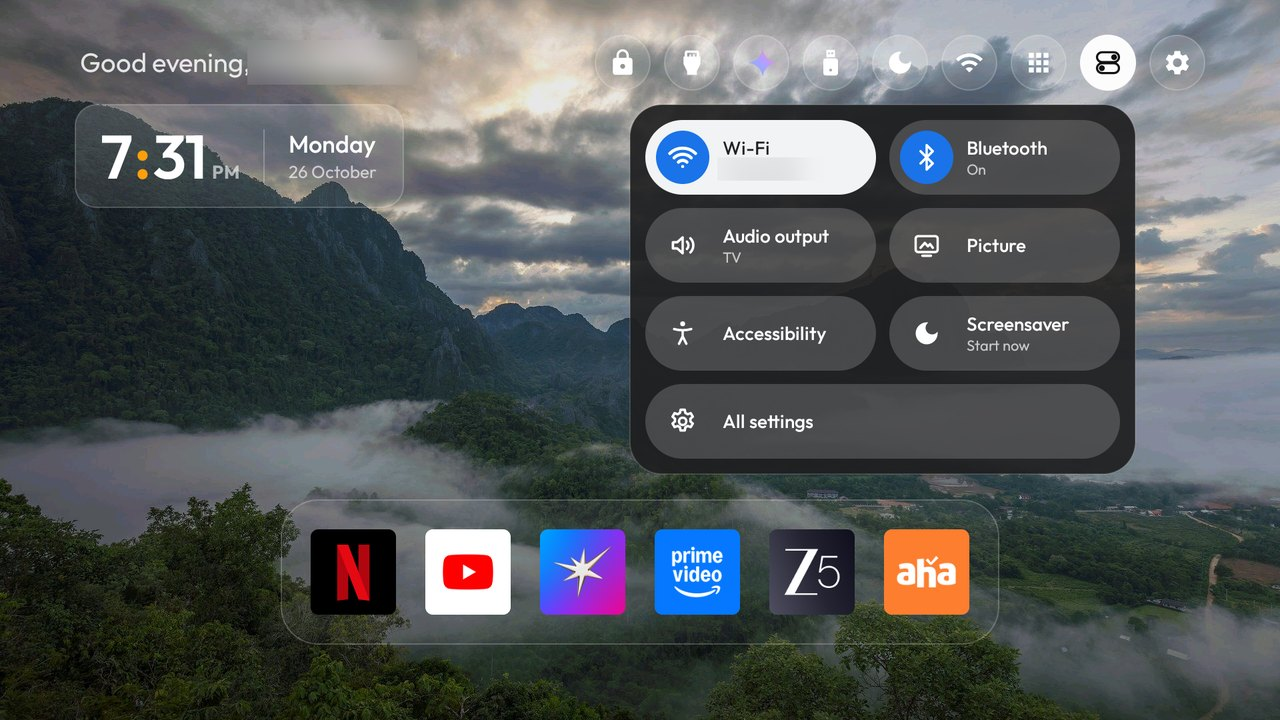
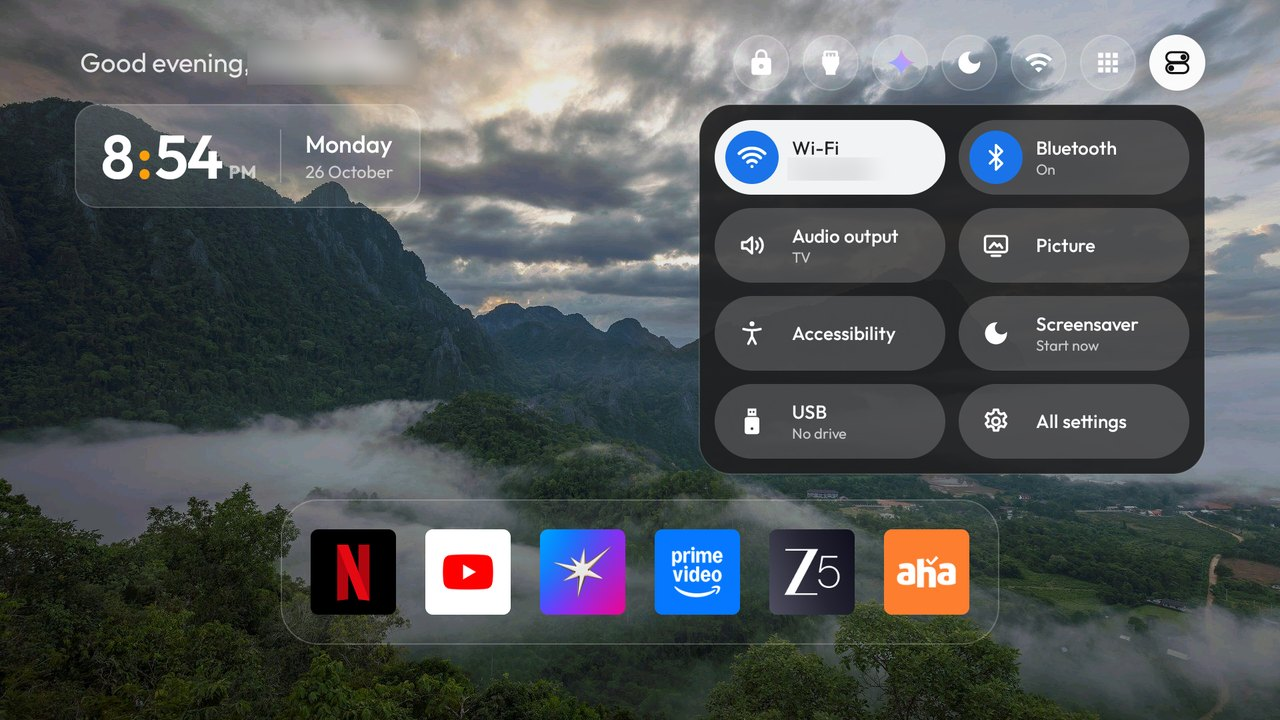
Launcher: the Control Centre replaces Settings and holds USB; wallpaper_fallback_glow; Home opens without the highlight sliding in
The toggles button takes the Settings pill's place (hold OK keeps the launcher menu), USB moves into the panel, the app-colour glow covers a wallpaper that isn't readable yet after power-on, and the grid stays hidden until its padding settles. Tried on a Xiaomi TV A Pro 2026, Google TV 14.

diff --git a/launcher/app/src/main/java/com/gathin/tvhome/MainActivity.java b/launcher/app/src/main/java/com/gathin/tvhome/MainActivity.java
@@ -223,6 +223,8 @@ public class MainActivity extends Activity implements AppAdapter.TileListener {
     private float glassScrollShiftX;
     private int glassCardW;   // width of the tile the glass was last fitted to
     private boolean glassShown;
+    /** The grid has been laid out with the dock's final top padding. */
+    private boolean gridSettled;
     private final Rect tileRect = new Rect();
     private final Rect revealRect = new Rect();
     // Static so they survive the activity being destroyed while another app is open (low-memory TVs,
@@ -307,6 +309,32 @@ public class MainActivity extends Activity implements AppAdapter.TileListener {
     private RecyclerView.OnScrollListener pendingFocusScroll;
 
     private final Handler handler = new Handler(Looper.getMainLooper());
+
+    /** wallpaper_fallback_glow: Home opened without its wallpaper, so the app-colour glow stands in. */
+    private boolean wallpaperFallbackGlow;
+    private static final long WALLPAPER_RETRY_MS = 4000;
+    /** Tries since Home last had its wallpaper; a process-wide cap, so a picture that never loads stops the rebuilds. */
+    private static int wallpaperRetries;
+    /**
+     * Rebuilds Home once the wallpaper files can be read: right after power-on Home can start before shared storage
+     * is up, or while the TV is too busy to decode the picture.
+     */
+    private final Runnable wallpaperRetry = new Runnable() {
+        @Override
+        public void run() {
+            if (isFinishing() || wallpaperPlayer.showing() || wallpaperRetries >= 30) return;
+            wallpaperRetries++;
+            if (wallpaperFilesReady()) recreate();
+            else handler.postDelayed(this, WALLPAPER_RETRY_MS);
+        }
+    };
+
+    private boolean wallpaperFilesReady() {
+        File dir = Config.dir(this);
+        if (dir == null) return false;
+        File single = new File(dir, Config.WALLPAPER_NAME);
+        return single.isFile() && single.length() > 0 || !WallpaperRotation.images(new File(dir, "wallpapers")).isEmpty();
+    }
     /** Refreshes the network pill when the connection changes: at boot Wi-Fi often connects after Home is shown. */
     private final ConnectivityManager.NetworkCallback networkCallback = new ConnectivityManager.NetworkCallback() {
         @Override
@@ -449,7 +477,8 @@ public class MainActivity extends Activity implements AppAdapter.TileListener {
         // The glow is one bitmap, so its alpha can be applied while drawing it. Otherwise every frame of
         // a fade renders it into a full-screen offscreen buffer first.
         ambient.forceHasOverlappingRendering(false);
-        ambientGlow = cfg.ambientGlow;
+        wallpaperFallbackGlow = cfg.wallpaperFallbackGlow;
+        ambientGlow = cfg.ambientGlow || wallpaperFallbackGlow && !wallpaperPlayer.showing();
         appGlow = cfg.appGlow;
         if (!ambientGlow) ambient.setVisibility(View.GONE);
         heroName = findViewById(R.id.heroName);
@@ -529,6 +558,10 @@ public class MainActivity extends Activity implements AppAdapter.TileListener {
         hiddenApps = new HashSet<>(cfg.hiddenApps);
 
         grid = findViewById(R.id.grid);
+        // Until the dock has its final padding: no dock band drawn under the header, and no top button taking the
+        // first focus (it lit up white before the dock tile took over).
+        grid.setAlpha(0f);
+        ((ViewGroup) findViewById(R.id.topButtons)).setDescendantFocusability(ViewGroup.FOCUS_BLOCK_DESCENDANTS);
         rtlAppGrid = getResources().getBoolean(R.bool.rtl_app_grid);
         // Mirror only the app grid; the header and other locales keep their own layouts.
         // single_row: one span laid out sideways, so the same adapter, glass and dock band serve a scrolling row.
@@ -656,8 +689,18 @@ public class MainActivity extends Activity implements AppAdapter.TileListener {
             // A single row never shows the names under its tiles (the title above the row names the app), so the
             // 7dp gap and 22dp label item_app.xml keeps for them would only lift the row: sit it that much lower.
             if (singleRow && !cfg.alwaysShowNames) want += (int) (29 * density);
-            if (grid.getPaddingTop() != want) {
+            if (grid.getPaddingTop() == want) {
+                gridSettled = true;
+                if (grid.getAlpha() == 0f) {
+                    grid.setAlpha(1f);
+                    ((ViewGroup) findViewById(R.id.topButtons)).setDescendantFocusability(ViewGroup.FOCUS_AFTER_DESCENDANTS);
+                }
+            } else {
+                gridSettled = false;
                 grid.setPadding(grid.getPaddingLeft(), want, grid.getPaddingRight(), grid.getPaddingBottom());
+                if (!singleRow) grid.post(grid::requestLayout);
+                // The first layout put the dock in the wrong place: play the tiles' entrance where they stay.
+                if (!glassShown && grid.getLayoutAnimation() != null) grid.scheduleLayoutAnimation();
                 // A vertical grid parks the dock on the new padding line by scrolling (onTileFocused); a sideways
                 // row cannot scroll vertically, and the layout request made from inside this layout pass is
                 // dropped, so lay the row out again on the next frame. The glass and the title were placed for the
@@ -770,10 +813,10 @@ public class MainActivity extends Activity implements AppAdapter.TileListener {
         btnLibraryTop.setVisibility(cfg.libraryButton && cfg.appLibrary ? View.VISIBLE : View.GONE);
         addTopBarApps(cfg.topBarApps, cfg.launchActions);
         if (cfg.assistantButton) addAssistantButton();
-        if (!cfg.usbButton.isEmpty()) addUsbButton(cfg.usbButton);
+        if (cfg.controlCenter && !cfg.topMenu) usbPackage = cfg.usbButton;
+        else if (!cfg.usbButton.isEmpty()) addUsbButton(cfg.usbButton);
         if (cfg.sleepTimerButton) addSleepTimerButton();
         if (cfg.lockButton) addLockButton();
-        if (cfg.controlCenter) addControlCenterButton();
         librarySquareCards = cfg.librarySquareCards;
         appBanners = cfg.appBanners;
         iconOnlyButtons = cfg.iconOnlyButtons;
@@ -815,6 +858,7 @@ public class MainActivity extends Activity implements AppAdapter.TileListener {
             showSettingsMenu();
             return true;
         });
+        if (cfg.controlCenter && !cfg.topMenu) makeControlCenterButton((TextView) btnSettings);
 
         // Keep focus on the top bar at its ends and at the top: Android's focus finder would otherwise
         // jump to a tile far below when there is nothing in that direction.
@@ -997,6 +1041,10 @@ public class MainActivity extends Activity implements AppAdapter.TileListener {
             return;
         }
         restartIdleClock();
+        if (wallpaperFallbackGlow) {
+            if (wallpaperPlayer.showing()) wallpaperRetries = 0;
+            else handler.postDelayed(wallpaperRetry, WALLPAPER_RETRY_MS);
+        }
         promptsPaused = false;
         if (grid.getAdapter() == null) grid.setAdapter(adapter);   // dropped by onTrimMemory
         switch (tileRefresh.onResume(packagesChangedSinceRebuild())) {
@@ -1207,6 +1255,7 @@ public class MainActivity extends Activity implements AppAdapter.TileListener {
     protected void onPause() {
         super.onPause();
         root.removeCallbacks(showIdleClock);
+        handler.removeCallbacks(wallpaperRetry);
         endReorder();   // Home or another app while reordering keeps the order so far
         wallpaperPlayer.stop();
         stopAmbientAnimation();
@@ -1687,6 +1736,9 @@ public class MainActivity extends Activity implements AppAdapter.TileListener {
             });
             return;
         }
+        // Before the dock has its final padding the tile still sits near the top: placed there, the highlight
+        // would show up under the header and then slide down. refitGlass places it once the grid settles.
+        if (!gridSettled) return;
         // Tile rect in root coordinates, using layout positions (ignores the scale animation).
         Rect r = tileRect;
         r.set(0, 0, card.getWidth(), card.getHeight());
@@ -2820,18 +2872,19 @@ public class MainActivity extends Activity implements AppAdapter.TileListener {
     /** sleep_timer_button's pill; null without it. */
     private TextView btnBedtime;
 
-    /** control_center: a round toggles button just before Settings that opens the quick settings tiles. */
-    private void addControlCenterButton() {
-        ViewGroup bar = findViewById(R.id.topButtons);
-        TextView button = (TextView) getLayoutInflater().inflate(R.layout.top_app_button, bar, false);
-        button.setId(View.generateViewId());
-        button.setCompoundDrawablesRelativeWithIntrinsicBounds(R.drawable.ic_control_center, 0, 0, 0);
-        button.setContentDescription(getString(R.string.control_center));
-        button.setOnClickListener(this::showControlCenter);
-        int settings = bar.indexOfChild(findViewById(R.id.btnSettings));
-        bar.addView(button, getResources().getBoolean(R.bool.rtl_menu_bar) ? settings + 1 : settings);
-        topAppButtons.add(button);
+    /**
+     * control_center: the Settings pill becomes a round toggles button that opens the quick settings tiles, whose
+     * All settings tile stands in for it. Holding OK still opens the Settings pill's menu.
+     */
+    private void makeControlCenterButton(TextView settings) {
+        settings.setCompoundDrawablesRelativeWithIntrinsicBounds(R.drawable.ic_control_center, 0, 0, 0);
+        settings.setText(getString(R.string.control_center));
+        makeIconOnly(settings);
+        settings.setOnClickListener(this::showControlCenter);
     }
+
+    /** usb_button's package, shown as a USB tile in control_center instead of a top-bar button; "" for none. */
+    private String usbPackage = "";
 
     /**
      * control_center, after the Google TV panel: two columns of rounded tiles, each a glyph on a round badge
@@ -2895,6 +2948,14 @@ public class MainActivity extends Activity implements AppAdapter.TileListener {
         addControlTile(row, popup, R.drawable.ic_sleep_timer, false, getString(R.string.screensaver),
                 getString(R.string.start_now), () -> open(startDream));
         row = controlRow(panel, gap);
+        Intent usb = usbPackage.isEmpty() ? null : getPackageManager().getLeanbackLaunchIntentForPackage(usbPackage);
+        if (usb == null && !usbPackage.isEmpty()) usb = getPackageManager().getLaunchIntentForPackage(usbPackage);
+        if (usb != null) {
+            String drive = usbDrive();
+            Intent openUsb = usb;
+            addControlTile(row, popup, R.drawable.ic_usb, drive != null, getString(R.string.usb),
+                    drive != null ? drive : getString(R.string.no_usb_drive), () -> open(openUsb));
+        }
         addControlTile(row, popup, R.drawable.ic_line_settings, false, getString(R.string.all_settings),
                 null, () -> open(systemIntent(Settings.ACTION_SETTINGS)));
 
@@ -2938,6 +2999,16 @@ public class MainActivity extends Activity implements AppAdapter.TileListener {
         });
         row.addView(tile);
         return tile;
+    }
+
+    /** The name of a mounted USB drive, or null when none is plugged in. */
+    private String usbDrive() {
+        android.os.storage.StorageManager sm = getSystemService(android.os.storage.StorageManager.class);
+        if (sm == null) return null;
+        for (android.os.storage.StorageVolume v : sm.getStorageVolumes()) {
+            if (v.isRemovable() && android.os.Environment.MEDIA_MOUNTED.equals(v.getState())) return v.getDescription(this);
+        }
+        return null;
     }
 
     /** Where sound goes: a Bluetooth or USB device by name, the HDMI ARC receiver, headphones, or the TV. */

diff --git a/launcher/app/src/main/java/com/gathin/tvhome/Config.java b/launcher/app/src/main/java/com/gathin/tvhome/Config.java
@@ -264,6 +264,8 @@ final class Config {
     final String usbButton;
     /** A toggles button opens a panel of quick setting tiles (config.xml, control_center). */
     final boolean controlCenter;
+    /** The app-colour glow stands in while no wallpaper could be shown (config.xml, wallpaper_fallback_glow). */
+    final boolean wallpaperFallbackGlow;
     /** App library cards as squares, the app's icon filling each with its name over it (library_square_cards). */
     final boolean librarySquareCards;
     /** A moon button in the top bar whose dropdown sets the Sleep Timer add-on (config.xml, sleep_timer_button). */
@@ -296,9 +298,10 @@ final class Config {
                    List<RaceWeekend.Race> raceCalendar, boolean cinematicHome, boolean ambientGlow, boolean appGlow, boolean fadeRows, int homeIdleClockMinutes,
                    boolean keyFilter, boolean dockGlass, String glowStyle, boolean wallpaperCaptions,
                    boolean handleViewInputs, boolean tileMenu, boolean dockEvenPadding, boolean dockBand, boolean cinematicDots, boolean cinematicWhiteFocus, boolean wifiStatusColor, int cinematicScrim, int cinematicArt,
-                   Map<String, Set<String>> wallpaperMoods, boolean gamepadPassthrough, boolean consumeVolumeKeys, boolean powerOnHome, boolean homeLongPressHome, boolean wifiStatusWarnings, List<String> topBarApps, boolean showGreeting, boolean headerWhite, boolean clockWallpaper, int clockWallpaperDim, boolean clockGlow, String glassStyle, boolean singleRow, boolean dockBandAll, boolean lunarDate, int lunarUtcOffset, boolean dateBelowClock, boolean vpnPill, String locale, boolean powerOnHomeAlways, boolean analogClock, boolean squareTiles, boolean boldClock, boolean clockCard, boolean assistantButton, boolean librarySquareCards, boolean sleepTimerButton, boolean heavyClock, boolean wifiDropdown, boolean lockButton, boolean idleLock, String usbButton, boolean controlCenter) {
+                   Map<String, Set<String>> wallpaperMoods, boolean gamepadPassthrough, boolean consumeVolumeKeys, boolean powerOnHome, boolean homeLongPressHome, boolean wifiStatusWarnings, List<String> topBarApps, boolean showGreeting, boolean headerWhite, boolean clockWallpaper, int clockWallpaperDim, boolean clockGlow, String glassStyle, boolean singleRow, boolean dockBandAll, boolean lunarDate, int lunarUtcOffset, boolean dateBelowClock, boolean vpnPill, String locale, boolean powerOnHomeAlways, boolean analogClock, boolean squareTiles, boolean boldClock, boolean clockCard, boolean assistantButton, boolean librarySquareCards, boolean sleepTimerButton, boolean heavyClock, boolean wifiDropdown, boolean lockButton, boolean idleLock, String usbButton, boolean controlCenter, boolean wallpaperFallbackGlow) {
         this.usbButton = usbButton;
         this.controlCenter = controlCenter;
+        this.wallpaperFallbackGlow = wallpaperFallbackGlow;
         this.lockButton = lockButton;
         this.idleLock = idleLock;
         this.wifiDropdown = wifiDropdown;
@@ -537,6 +540,7 @@ final class Config {
         boolean assistantButton = res.getBoolean(R.bool.assistant_button);
         String usbButton = res.getString(R.string.usb_button);
         boolean controlCenter = res.getBoolean(R.bool.control_center);
+        boolean wallpaperFallbackGlow = res.getBoolean(R.bool.wallpaper_fallback_glow);
         boolean librarySquareCards = res.getBoolean(R.bool.library_square_cards);
         boolean sleepTimerButton = res.getBoolean(R.bool.sleep_timer_button);
         boolean wifiDropdown = res.getBoolean(R.bool.wifi_dropdown);
@@ -654,6 +658,7 @@ final class Config {
             assistantButton = bool(json, "assistant_button", assistantButton);
             usbButton = string(json, "usb_button", usbButton);
             controlCenter = bool(json, "control_center", controlCenter);
+            wallpaperFallbackGlow = bool(json, "wallpaper_fallback_glow", wallpaperFallbackGlow);
             librarySquareCards = bool(json, "library_square_cards", librarySquareCards);
             sleepTimerButton = bool(json, "sleep_timer_button", sleepTimerButton);
             wifiDropdown = bool(json, "wifi_dropdown", wifiDropdown);
@@ -725,7 +730,7 @@ final class Config {
                 dockBand, cinematicDots, cinematicWhiteFocus, wifiStatusColor, cinematicScrim, cinematicArt, wallpaperMoods, gamepadPassthrough,
                 consumeVolumeKeys, powerOnHome, homeLongPressHome, wifiStatusWarnings, topBarApps, showGreeting, headerWhite, clockWallpaper,
                 Math.max(0, Math.min(90, clockWallpaperDim)), clockGlow, glassStyle, singleRow && dockRow, dockBandAll, lunar, lunarOffset,
-                dateBelowClock, vpnPill, locale, powerOnHomeAlways, analogClock, squareTiles && !singleRow, boldClock, clockCard, assistantButton, librarySquareCards, sleepTimerButton, heavyClock, wifiDropdown, lockButton, idleLock, usbButton == null ? "" : usbButton.trim(), controlCenter);
+                dateBelowClock, vpnPill, locale, powerOnHomeAlways, analogClock, squareTiles && !singleRow, boldClock, clockCard, assistantButton, librarySquareCards, sleepTimerButton, heavyClock, wifiDropdown, lockButton, idleLock, usbButton == null ? "" : usbButton.trim(), controlCenter, wallpaperFallbackGlow);
     }
 
     /**

diff --git a/launcher/app/src/main/java/com/gathin/tvhome/WallpaperPlayer.java b/launcher/app/src/main/java/com/gathin/tvhome/WallpaperPlayer.java
@@ -128,6 +128,13 @@ final class WallpaperPlayer {
         }
     }
 
+    /** Whether a picture made it onto the screen; one dropped for memory while Home was hidden still counts. */
+    boolean showing() {
+        return current != null || released;
+    }
+
+    private boolean released;
+
     void start() {
         active = true;
         update();
@@ -144,6 +151,7 @@ final class WallpaperPlayer {
         // The renderer may still have a queued frame that references this hardware bitmap. Drop our references and
         // let Android reclaim its native buffer after rendering releases it instead of recycling it mid-frame.
         current = null;
+        released = true;
         displayed = "";
         root.setBackgroundColor(backgroundColor);
     }
@@ -263,6 +271,7 @@ final class WallpaperPlayer {
     private void show(Bitmap bitmap) {
         Bitmap old = current;
         current = bitmap;
+        released = false;
         // The wallpaper covers the whole root; avoid drawing the fallback colour under it.
         root.setBackground(null);
         image.setImageBitmap(bitmap);

diff --git a/README.md b/README.md
@@ -40,9 +40,10 @@ Built on <a href="https://github.com/Gathin23/cleanyourtv">CleanYourTV</a>: no r
 
 - **No ads, no clutter.** Sponsored rows, autoplaying trailers and Xiaomi's ad channels are switched off.
 - **A home that feels like Apple TV.** A greeting, a glass clock card, round glass buttons and a centred dock of six apps.
-- **A Control Centre** like Google TV's own: Wi-Fi, Bluetooth, audio output, picture, accessibility and the screensaver, one press away.
+- **A Control Centre** like Google TV's own: Wi-Fi, Bluetooth, audio output, picture, accessibility, the screensaver, USB and all settings, one press away.
 - **A macOS-style Wi-Fi menu** that switches Wi-Fi and joins networks without leaving Home.
 - **Bedtime and a lock screen:** a sleep timer on the moon button, and a lock that only **OK** opens.
+- **Never a black screen:** if the wallpaper isn't ready after power-on, the background glows in the focused app's colour until it is.
 - **Light on a 1 GB TV:** no internet permission, no background services, no analytics.
 - **Safe:** apps are disabled, never deleted, and one command brings everything back.
 
@@ -53,7 +54,7 @@ Built on <a href="https://github.com/Gathin23/cleanyourtv">CleanYourTV</a>: no r
 | Before: Google TV | After |
 |---|---|
 | ![Google TV's stock home, full of sponsored banners and recommendations](docs/readme/before.jpg) | ![The new home screen](docs/readme/home.jpg) |
-| Sponsored banners, autoplaying trailers, rows of recommendations and Xiaomi's own ad channels. | One greeting, the time, a row of round buttons and the six apps we actually watch. |
+| Sponsored banners, autoplaying trailers, rows of recommendations and Xiaomi's own ad channels. | One greeting, the time, seven round buttons and the six apps we actually watch. |
 
 ---
 
@@ -70,12 +71,10 @@ Built on <a href="https://github.com/Gathin23/cleanyourtv">CleanYourTV</a>: no r
 | Padlock | Locks the screen: a large centred clock over the wallpaper until **OK** is pressed. |
 | Inputs | HDMI and other sources. |
 | Gemini | Opens Google's assistant. |
-| USB | Opens the TV's file browser for a USB drive. |
 | Moon | Sleep timer and bedtime. |
 | Wi-Fi | The macOS-style [Wi-Fi menu](#the-wi-fi-menu). |
 | App library | Every app, as square cards. |
-| Toggles | The [Control Centre](#control-centre). |
-| Settings | The TV's settings. The remote's own Settings button works too. |
+| Toggles | The [Control Centre](#control-centre), in place of a Settings button. Hold **OK** on it for [more](#hold-ok-for-more). The remote's own Settings button still opens the TV's settings. |
 
 ### Dock
 YouTube, Netflix, JioHotstar, Prime Video, ZEE5 and aha, on square glass tiles in a frosted bar, centred.
@@ -85,14 +84,17 @@ YouTube, Netflix, JioHotstar, Prime Video, ZEE5 and aha, on square glass tiles i
 - **Hold OK** on a tile: Move, Remove or App info.
 - **Home at every power-on**, instead of the last app.
 - **Idle clock** after 10 minutes on Home. With `idle_lock`, the screensaver is the lock screen, its clock held in the centre.
+- **A clean start-up**: the dock rises into place with the highlight already on the first app.
+- **Wallpaper fallback**: right after power-on the wallpaper can take a moment to become readable. Until then the
+  background glows in the focused app's colour, and Home swaps the photo in by itself as soon as it can.
 
 ---
 
 ## Control Centre
 
-<img src="docs/readme/control.jpg" alt="The Control Centre: a dark glass panel of rounded tiles for Wi-Fi, Bluetooth, Audio output, Picture, Accessibility, Screensaver and All settings" width="860">
+<img src="docs/readme/control.jpg" alt="The Control Centre: a dark glass panel of rounded tiles for Wi-Fi, Bluetooth, Audio output, Picture, Accessibility, Screensaver, USB and All settings" width="860">
 
-The toggles button opens a panel of rounded tiles, after the one on Google TV. The focused tile turns white, and
+The toggles button at the end of the top bar opens a panel of rounded tiles, after the one on Google TV. The focused tile turns white, and
 a tile's badge turns blue while that thing is on.
 
 | Tile | Shows | Opens |
@@ -103,9 +105,17 @@ a tile's badge turns blue while that thing is on.
 | Picture | | Picture settings |
 | Accessibility | | Accessibility settings |
 | Screensaver | Start now | The screensaver, straight away |
+| USB | The drive's name, or No drive | The TV's file browser |
 | All settings | | The TV's settings |
 
 Back closes the panel. It is the `control_center` switch, on in this theme and off by default.
+
+### Hold OK for more
+
+<img src="docs/readme/hold.jpg" alt="Holding OK on the toggles button: a menu with Launcher settings, Module cards, Edit dock, Reorder apps and Restart" width="860">
+
+Holding **OK** on the toggles button opens the launcher's own menu: Launcher settings, Module cards, Edit dock,
+Reorder apps and Restart.
 
 ---
 
@@ -253,13 +263,14 @@ All are in `launcher/app/src/main/res/values/config.xml` and can also be set in 
 | `analog_clock` | A glass analog clock instead of the digital one |
 | `square_tiles` | Square glass dock tiles with each app's logo |
 | `assistant_button` | A Gemini button in the top bar |
-| `usb_button` | A USB button that opens the given file browser app |
+| `usb_button` | A USB button that opens the given file browser app; a USB tile in the Control Centre when that is on |
 | `sleep_timer_button` | A moon button with the sleep timer dropdown |
 | `wifi_dropdown` | The macOS-style Wi-Fi menu |
-| `control_center` | The toggles button and its Control Centre panel |
+| `control_center` | The Settings button becomes the toggles button and its Control Centre panel |
 | `library_square_cards` | Square App library cards with the name over the art |
 | `lock_button` | A padlock button that opens the lock screen |
 | `idle_lock` | The screensaver locks the screen until OK is pressed, with the clock held in the centre |
+| `wallpaper_fallback_glow` | The app-colour glow stands in while the wallpaper can't be shown, and Home retries it |
 
 ## FAQ
 

diff --git a/themes/README.md b/themes/README.md
@@ -98,7 +98,8 @@ A new key needs one there in the same pull request.
 | `vpn_app` | string | App the network pill opens when a VPN is configured; also shows a red "VPN off" badge while no VPN is up |
 | `vpn_pill` | bool | The VPN as its own pill after the network pill instead of a badge inside it: solid green while a VPN is up, solid red "VPN off" while none is and `vpn_app` is installed, hidden otherwise. Pressing it opens `vpn_app` (without it, the App library, or VPN settings with `app_library` off); it keeps its label with `icon_only_buttons`; the network pill then opens Wi-Fi settings. Ignored with `top_menu`. A VPN app's kill switch holds a VPN up while the app says disconnected, so the pill stays green then (`false` by default) |
 | `wifi_dropdown` | bool | The network pill opens a macOS-style Wi-Fi menu: a toggle, this network, the strongest nearby ones and Bluetooth; switching and joining need the Wi-Fi Control add-on, otherwise the rows open Wi-Fi settings (`false` by default) |
-| `control_center` | bool | A round toggles button before Settings that opens a panel of tiles: Wi-Fi, Bluetooth, Audio output, Picture, Accessibility, Screensaver and All settings (`false` by default) |
+| `control_center` | bool | The Settings pill becomes a round toggles button that opens a panel of tiles: Wi-Fi, Bluetooth, Audio output, Picture, Accessibility, Screensaver, USB (`usb_button`'s app, instead of its top-bar button) and All settings; holding OK still opens the Settings menu. Ignored with `top_menu` (`false` by default) |
+| `wallpaper_fallback_glow` | bool | When the wallpaper cannot be shown (shared storage not ready yet after power-on, or a picture that fails to load), the glow in the focused app's colour fills in even with `ambient_glow` off, and Home keeps trying the wallpaper for about two minutes (`false` by default) |
 | `clock_card` | bool | One-line greeting with the name in bold, and the time and date on a frosted-glass card (`false` by default) |
 | `bold_clock` | bool | A bold clock whose colon blinks every second (`false` by default) |
 | `heavy_clock` | bool | The clock at weight 700, with a small AM/PM on its baseline (`false` by default) |
